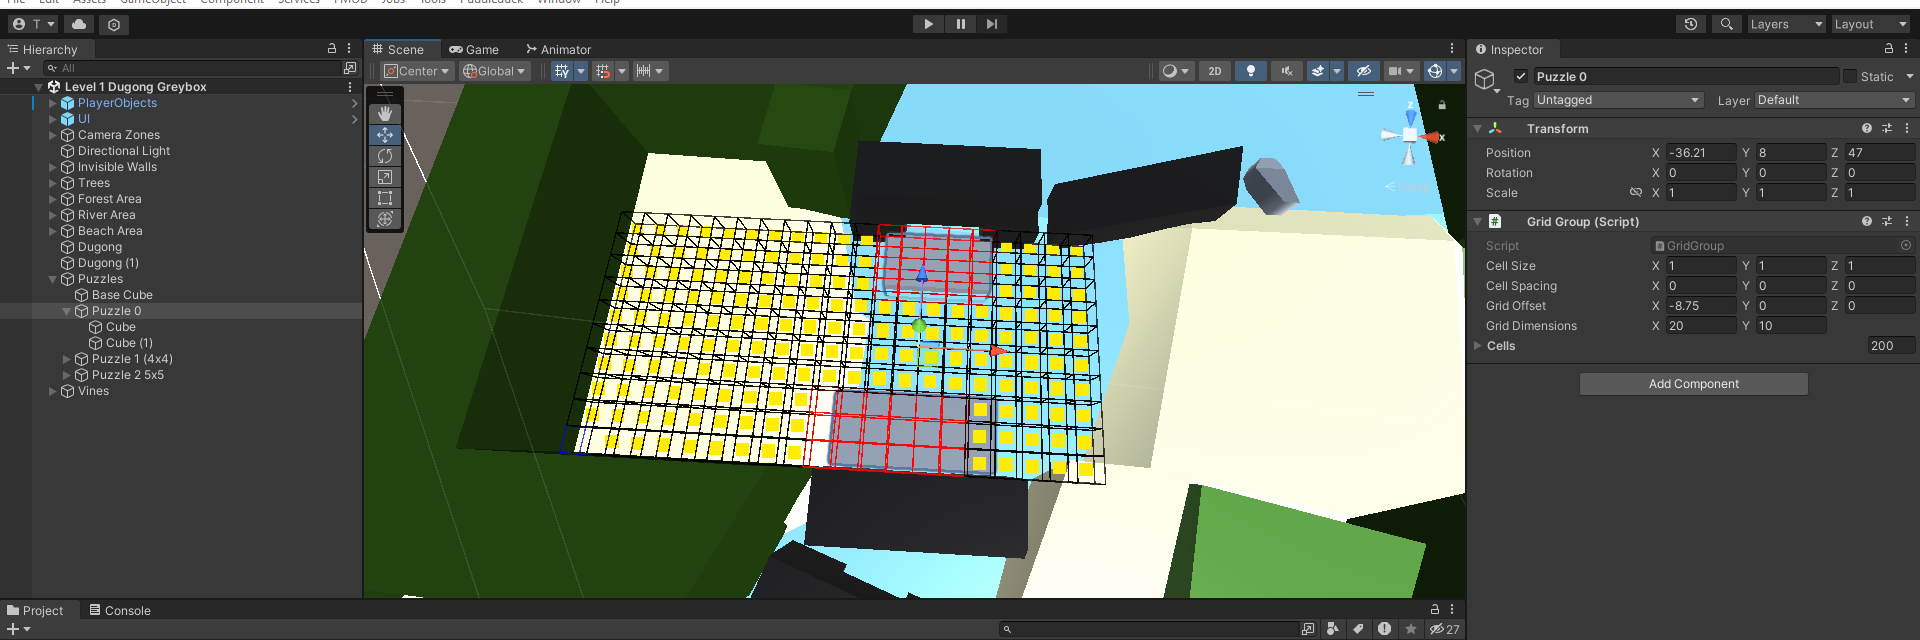
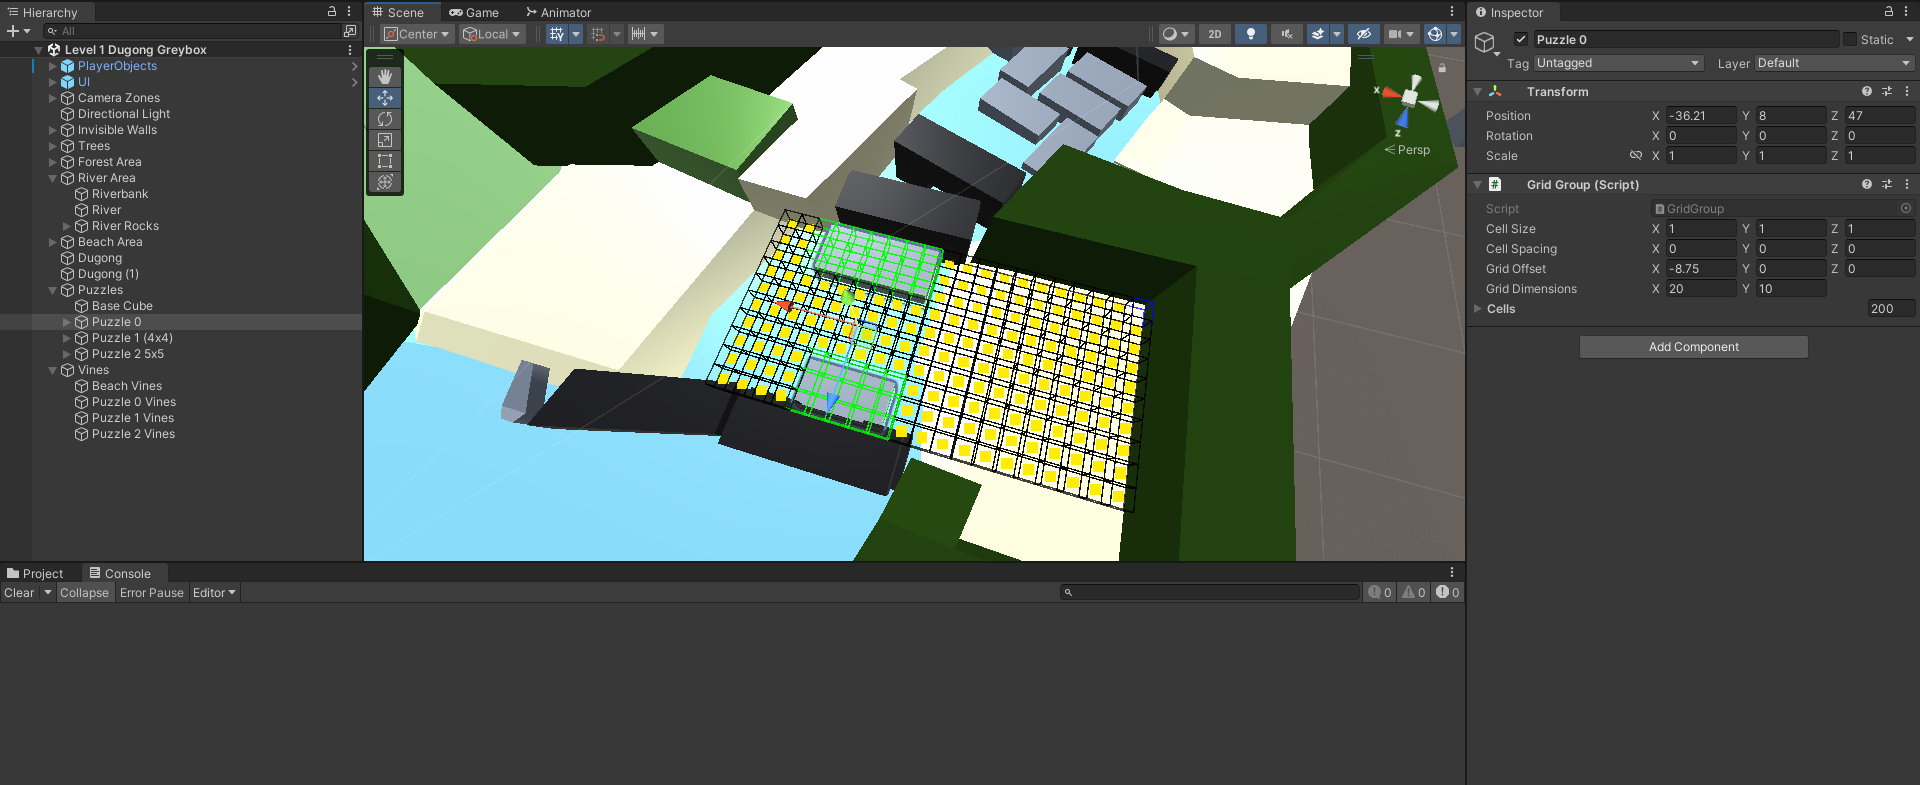
New color scheme documentation

diff --git a/Documentation/docs/Tutorials/interactions/grid.md b/Documentation/docs/Tutorials/interactions/grid.md
@@ -7,8 +7,9 @@ For anything involving a grid (right now just pushing and pulling), you need two
 
 You configure this like you would any grid, and it will update you to show you how your grid is configured.
 
-- RED means that the space is occupied.
+- GREEN means that the space is occupied.
 - BLACK means that the space is empty.
+- RED represents an error that needs to be resolved (usually two cells that have the same object occupying their space). You can check the console to learn more.
 - BLUE represents the grid origin (i.e.: 0,0).
 
 There are yellow squares at the center of each empty space (apart from the origin, since I don't want to change the colors there). If you click on one, it will change the square to RED to indicate that the space is now blocked. Click it again to change it back to an empty space.
